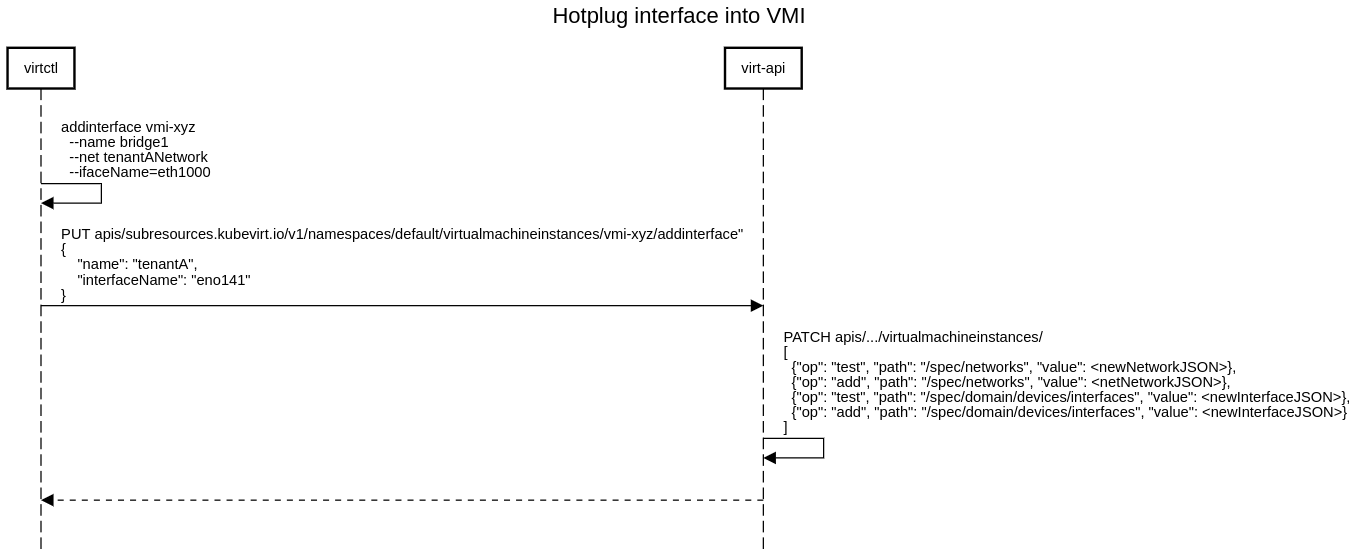
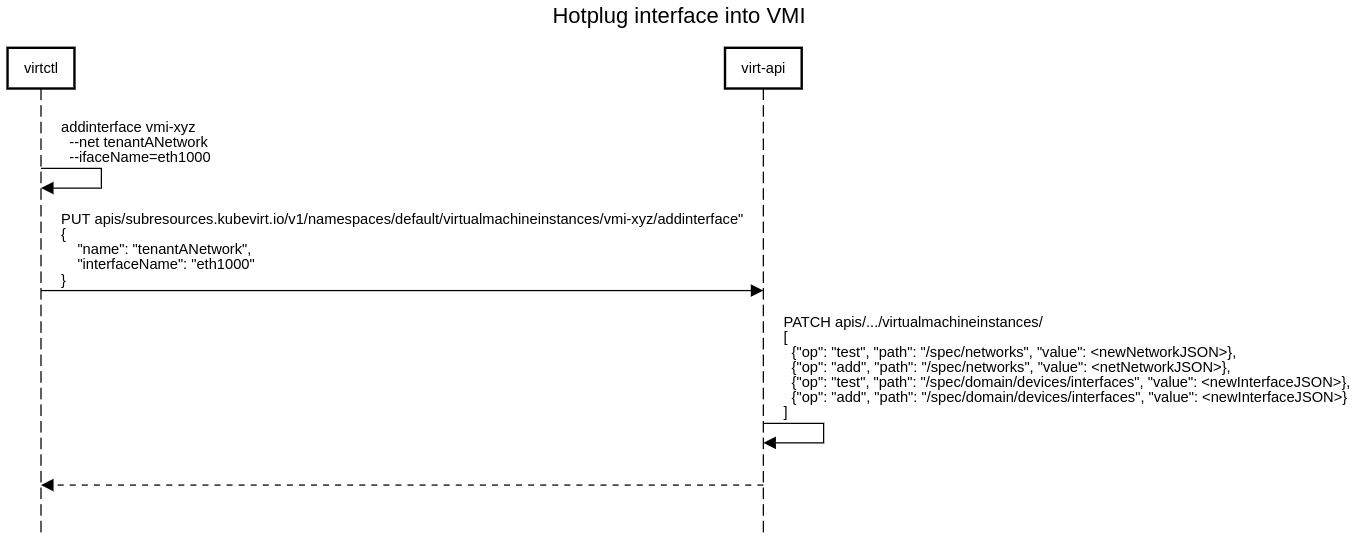
reacting to alonas comments

diff --git a/design-proposals/nic-hotplug/nic-hotplug.md b/design-proposals/nic-hotplug/nic-hotplug.md
@@ -44,7 +44,7 @@ administrator to provision it for them.
 
 ## User Stories
 * as a user, I want to add a new network interface to a running VM.
-* as a user, I want to remove a new network interface from a running VM.
+* as a user, I want to remove an existing network interface from a running VM.
 
 ## Repos
 - [CNAO](https://github.com/kubevirt/cluster-network-addons-operator)
@@ -313,7 +313,7 @@ type VirtualMachineInterfaceRequest struct {
     // AddInterfaceOptions when set indicates an interface should be added.
     AddInterfaceOptions *AddInterfaceOptions `json:"addInterfaceOptions,omitempty" optional:"true"`
 
-    // RemoveInterfaceOptions when set indicates a volume should be removed.
+    // RemoveInterfaceOptions when set indicates an interface  should be removed.
     RemoveInterfaceOptions *RemoveInterfaceOptions `json:"removeInterfaceOptions,omitempty" optional:"true"`
 }
 
@@ -322,25 +322,21 @@ type AddInterfaceOptions struct {
     // Name is the name of the interface in the KubeVirt VMI spec
     Name string `json:”name”`
 
-    // NetworkName is the name of the network
+    // NetworkName is the name of the multus network
     NetworkName string `json:”networkName”`
-
-    // PodInterfaceName is the name of the interface inside the pod
-    PodInterfaceName string `json:”podInterfaceName”`
 }
 
 // RemoveInterfaceOptions are used when hot unplugging network interfaces
 type RemoveInterfaceOptions struct {
-    // Name is the name of the interface in the KubeVirt VMI spec
+    // Name is the name of the interface in the KubeVirt VMI spec. Must match
+    // the name of the network defined in the VMI spec.
     Name string `json:"name"`
-
-    // NetworkName is the name of the network
-    NetworkName string `json:”networkName”`
-
-    // PodInterfaceName is the name of the interface inside the pod
-    PodInterfaceName string `json:”podInterfaceName,omitempty”`
 }
 ```
+
+**Note:** KubeVirt will **always** explicitly define the pod interface name for
+multus-cni. It will be computed from the VMI spec interface name, to allow
+multiple connections to the same multus provided network.
 
 ### VMIS
 ```golang
@@ -360,10 +356,10 @@ type InterfaceHotplugStatus struct {
 
 type InterfaceHotplugPhase string
 
-const InterfaceHotplugPhasePending    InterfaceHotplugPhase = "Pending"
-const InterfaceHotplugPhaseInfraReady InterfaceHotplugPhase = "InfraReady"
-const InterfaceHotplugPhaseReady      InterfaceHotplugPhase = "Ready"
-const InterfaceHotplugPhaseFailed     InterfaceHotplugPhase = "Failed"
+const InterfaceHotplugPhasePending    InterfaceHotplugPhase = "Pending"    # network configuration did not start yet
+const InterfaceHotplugPhaseInfraReady InterfaceHotplugPhase = "InfraReady" # network configuration phase1 completed (networking infra created and configured)
+const InterfaceHotplugPhaseReady      InterfaceHotplugPhase = "Ready"      # network configuration phase1 and phase2 completed (all is OK from the networking perspective)
+const InterfaceHotplugPhaseFailed     InterfaceHotplugPhase = "Failed"     # plugging the new interface failed. More details on `DetailedMessage`.
 ```
 
 
